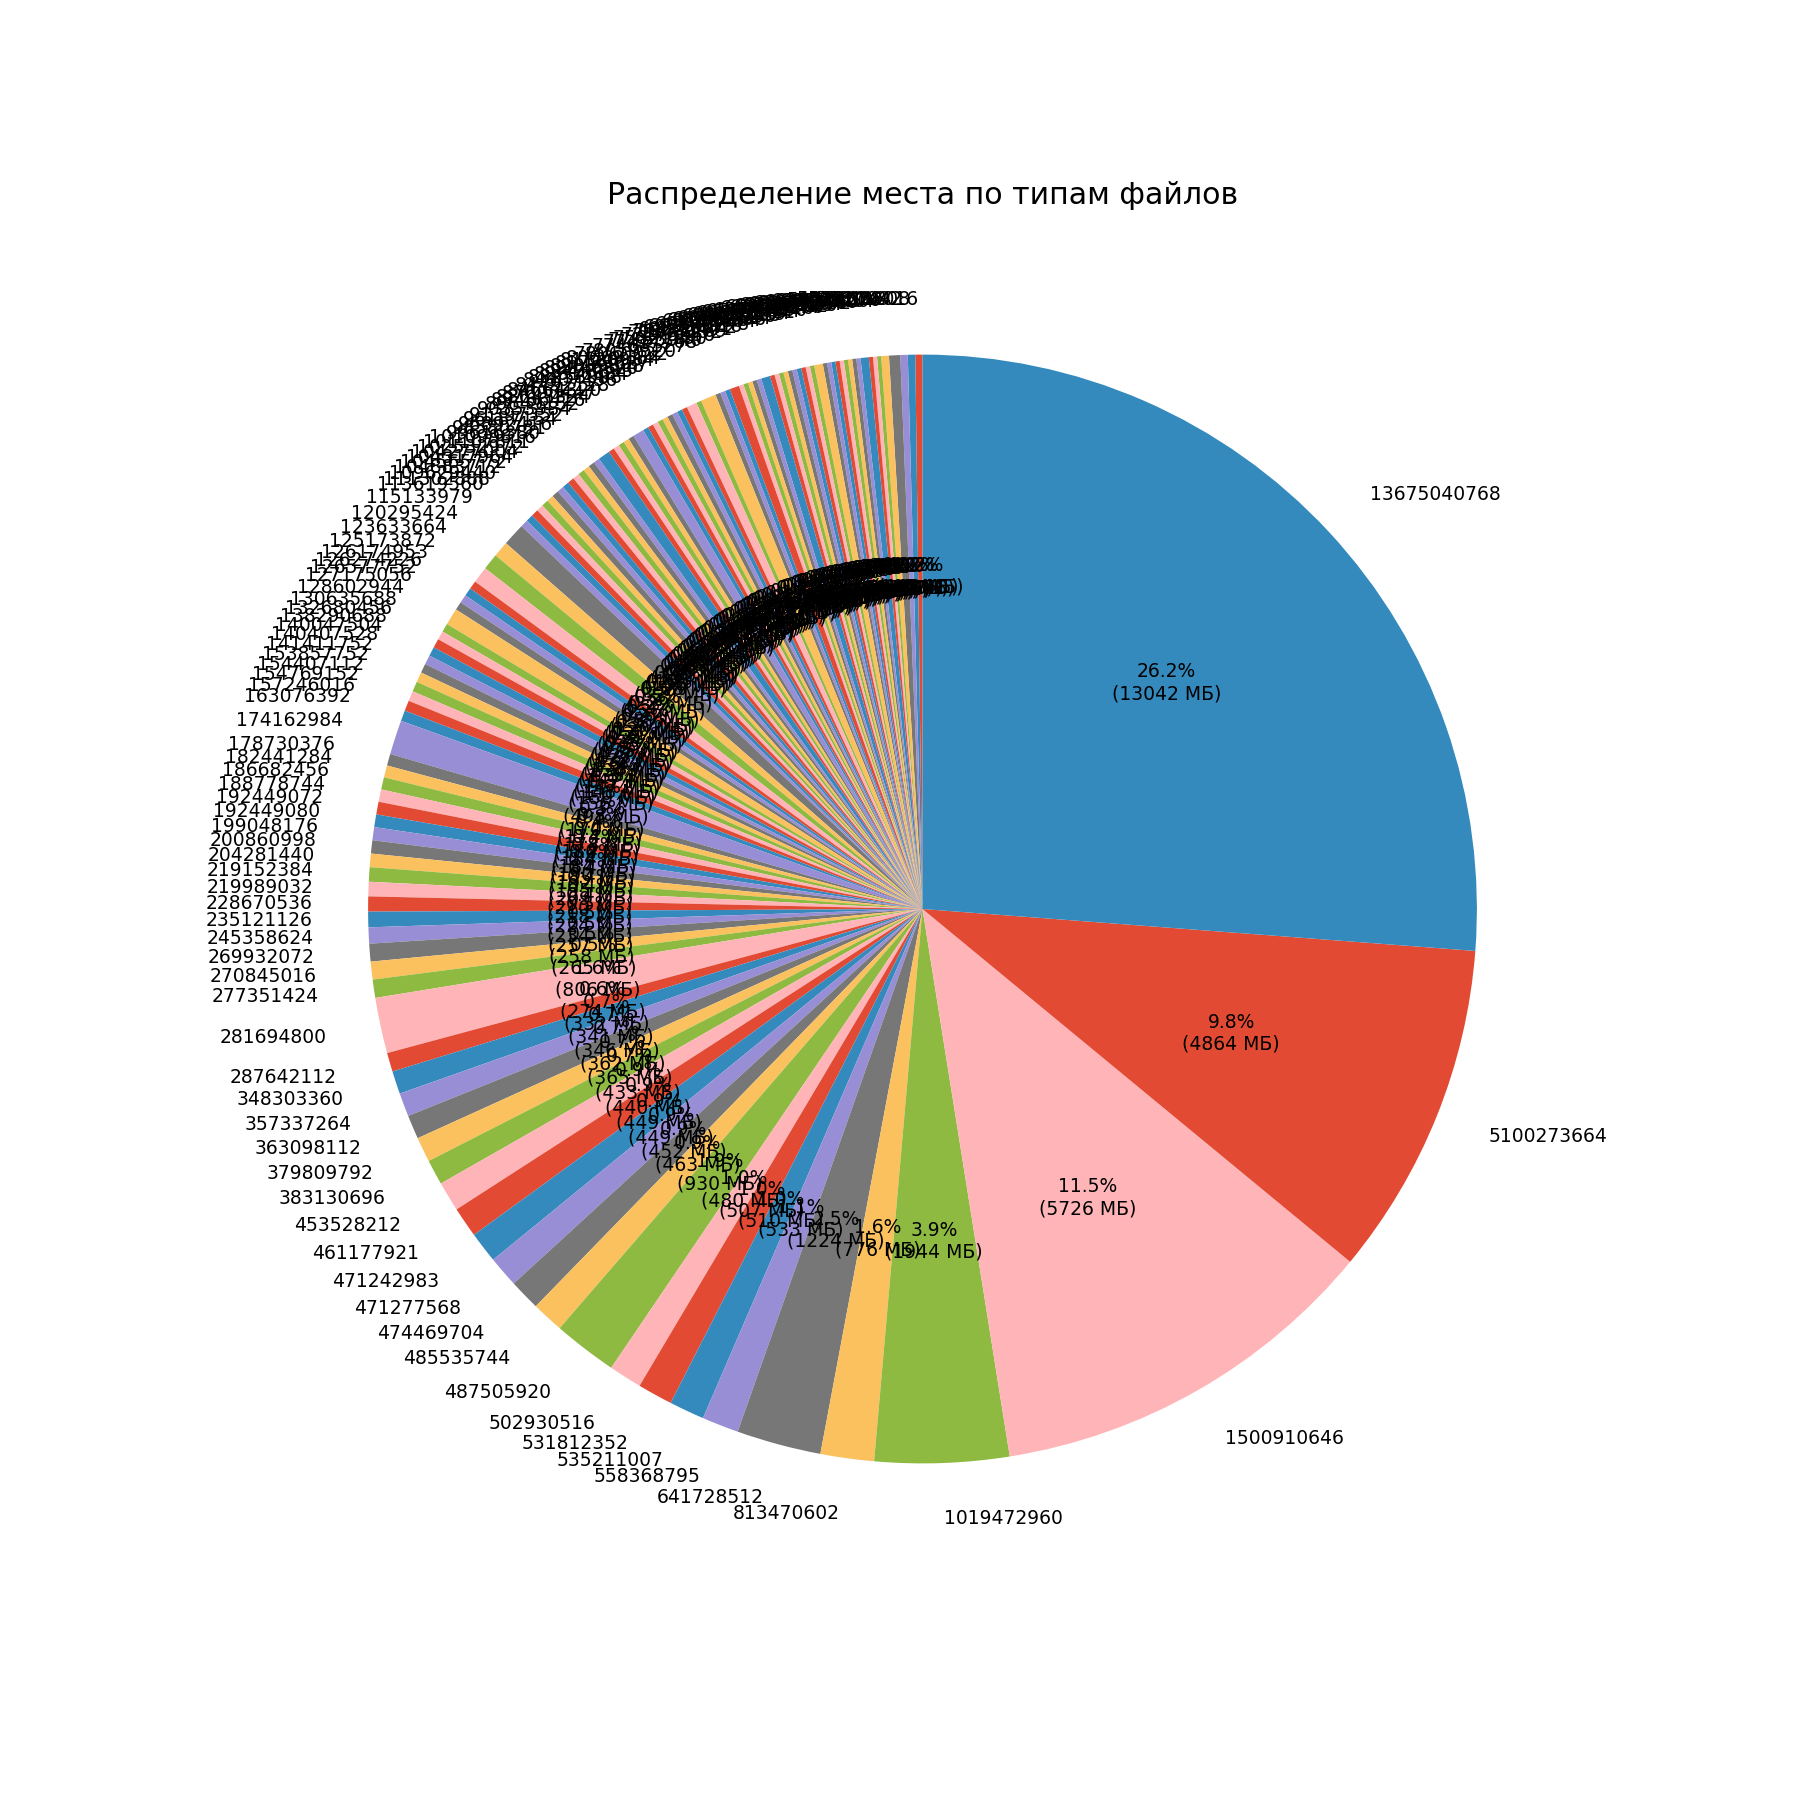
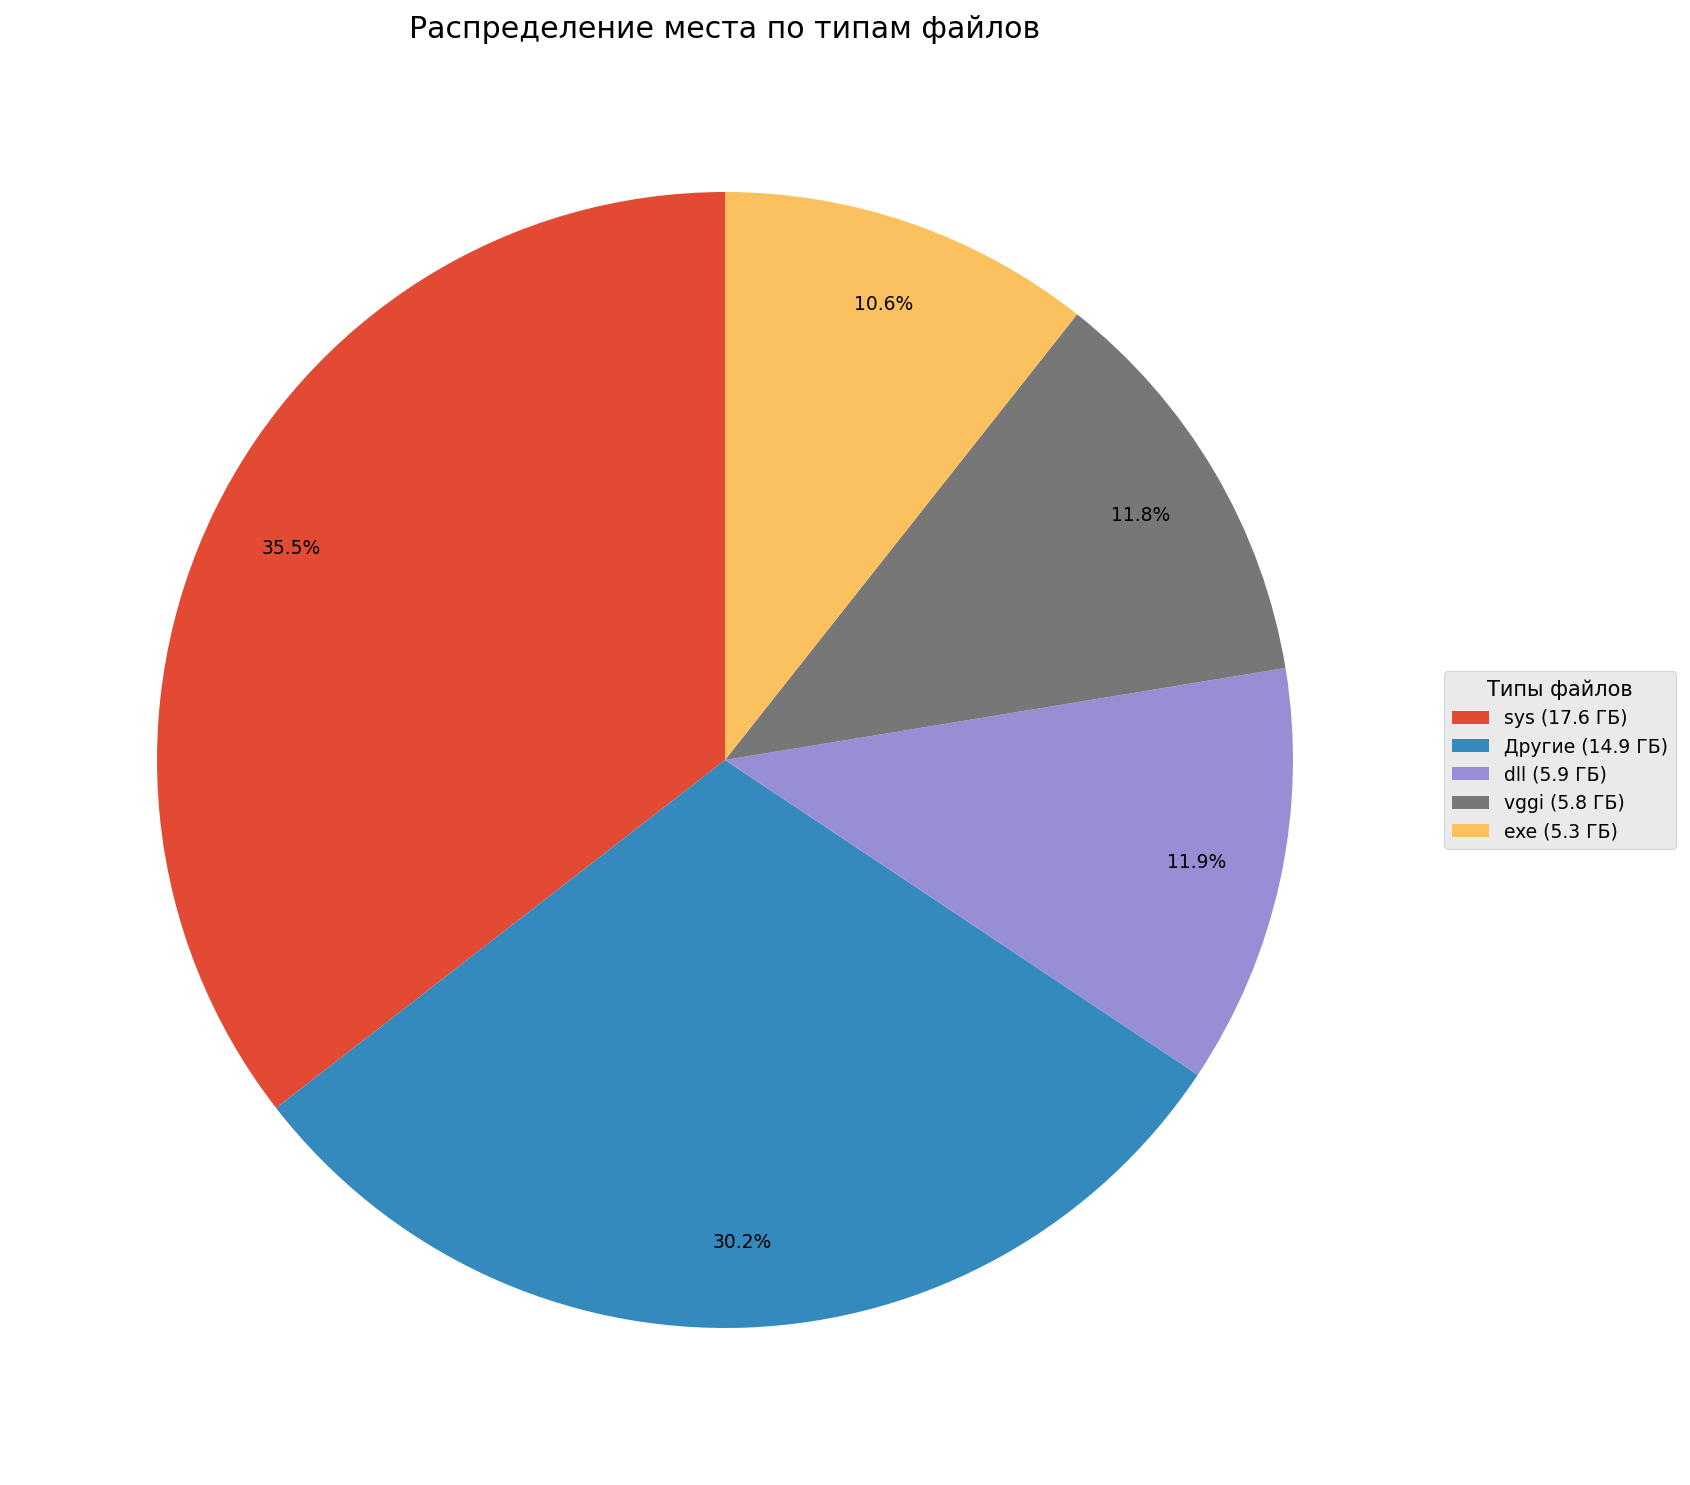
добавлена легенда в отчеты

diff --git a/disk_analyzer.py b/disk_analyzer.py
@@ -42,6 +42,7 @@ def analyze_disk_data(input_file, output_dir, top_n=20):
     plt.title(f'Топ-{top_n} файлов по размеру')
     plt.tight_layout()
     plt.savefig(os.path.join(output_dir, 'top_files.png'), dpi=150)
+    plt.close()
     
     # 2. Топ директорий по размеру
     plt.figure(figsize=(14, 10))
@@ -51,24 +52,51 @@ def analyze_disk_data(input_file, output_dir, top_n=20):
     plt.title(f'Топ-{top_n} директорий по размеру')
     plt.tight_layout()
     plt.savefig(os.path.join(output_dir, 'top_dirs.png'), dpi=150)
+    plt.close()
     
-    # 3. Распределение по типам файлов (расширениям)
-    plt.figure(figsize=(12, 12))
-    ext_size = files_df.groupby('Size')['размер_МБ'].sum()
-    ext_count = files_df.groupby('Size').size()
+    # 3. Распределение по типам файлов (расширениям) с легендой
+    plt.figure(figsize=(14, 10))
+    ext_size = files_df.groupby('Extension')['размер_МБ'].sum()
     
-    # Фильтрация мелких категорий
-    ext_size = ext_size[ext_size > ext_size.quantile(0.1)]
+    # Фильтрация мелких категорий и объединение в "Другие"
+    threshold = ext_size.quantile(0.9)  # Порог для объединения мелких категорий
+    small_exts = ext_size[ext_size < threshold]
+    main_exts = ext_size[ext_size >= threshold]
     
-    plt.pie(
-        ext_size,
-        labels=ext_size.index,
-        autopct=lambda p: f'{p:.1f}%\n({ext_size.sum()*p/100:.0f} МБ)',
+    # Добавляем категорию "Другие" если есть мелкие расширения
+    if not small_exts.empty:
+        main_exts['Другие'] = small_exts.sum()
+    
+    # Сортируем по размеру
+    main_exts = main_exts.sort_values(ascending=False)
+    
+    # Создаем данные для диаграммы
+    sizes = main_exts.values
+    labels = main_exts.index
+    
+    # Создаем круговую диаграмму с легендой
+    patches, texts, autotexts = plt.pie(
+        sizes,
+        autopct=lambda p: f'{p:.1f}%' if p > 3 else '',
         startangle=90,
-        textprops={'fontsize': 9}
+        textprops={'fontsize': 9},
+        pctdistance=0.85
     )
+    
+    # Добавляем легенду снаружи диаграммы
+    plt.legend(
+        patches,
+        [f"{l} ({s:.1f} ГБ)" for l, s in zip(labels, sizes/1024)],
+        title="Типы файлов",
+        loc="center left",
+        bbox_to_anchor=(1, 0, 0.5, 1),
+        fontsize=9
+    )
+    
     plt.title('Распределение места по типам файлов')
-    plt.savefig(os.path.join(output_dir, 'file_types.png'), dpi=150)
+    plt.tight_layout()
+    plt.savefig(os.path.join(output_dir, 'file_types.png'), dpi=150, bbox_inches='tight')
+    plt.close()
     
     # 4. Кумулятивный объем файлов
     plt.figure(figsize=(12, 8))
@@ -80,15 +108,15 @@ def analyze_disk_data(input_file, output_dir, top_n=20):
     plt.title('Кумулятивное распределение объема файлов')
     plt.grid(True, alpha=0.3)
     plt.savefig(os.path.join(output_dir, 'cumulative_size.png'), dpi=150)
+    plt.close()
     
     # 5. Динамика создания файлов (если есть данные)
-    if 'дата создания' in files_df.columns:
+    if 'DateTimeCreate' in files_df.columns:
         try:
             # Преобразуем даты и фильтруем корректные
             files_df['дата_создания'] = pd.to_datetime(
-                files_df['дата создания'], 
-                errors='coerce',
-                format='%Y-%m-%d %H:%M:%S'
+                files_df['DateTimeCreate'], 
+                errors='coerce'
             )
             valid_dates = files_df.dropna(subset=['дата_создания'])
             
@@ -105,6 +133,7 @@ def analyze_disk_data(input_file, output_dir, top_n=20):
             plt.xticks(rotation=45, ha='right')
             plt.tight_layout()
             plt.savefig(os.path.join(output_dir, 'creation_timeline.png'), dpi=150)
+            plt.close()
         except Exception as e:
             print(f"Ошибка при обработке дат: {str(e)}")
     
@@ -115,10 +144,11 @@ def analyze_disk_data(input_file, output_dir, top_n=20):
     plt.pie(sizes, labels=labels, autopct='%1.1f%%', startangle=90, colors=['lightblue', 'lightgreen'])
     plt.title('Распределение места между файлами и директориями')
     plt.savefig(os.path.join(output_dir, 'files_vs_dirs.png'), dpi=150)
+    plt.close()
     
     # 7. Тепловая карта расширений и размеров
     plt.figure(figsize=(12, 8))
-    top_extensions = ext_size.nlargest(30).index
+    top_extensions = files_df['Extension'].value_counts().nlargest(30).index
     filtered_files = files_df[files_df['Extension'].isin(top_extensions)]
     
     # Логарифмируем размеры для лучшей визуализации
@@ -140,6 +170,7 @@ def analyze_disk_data(input_file, output_dir, top_n=20):
     plt.xticks(rotation=45, ha='right')
     plt.tight_layout()
     plt.savefig(os.path.join(output_dir, 'size_heatmap.png'), dpi=150)
+    plt.close()
     
     # Генерация отчета
     generate_text_report(df, output_dir, top_n)
